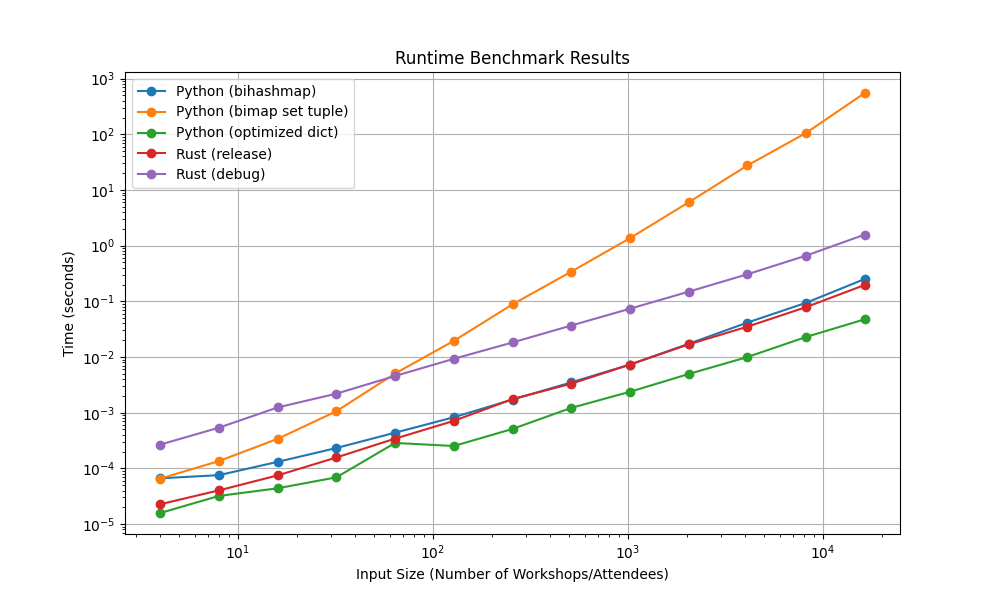
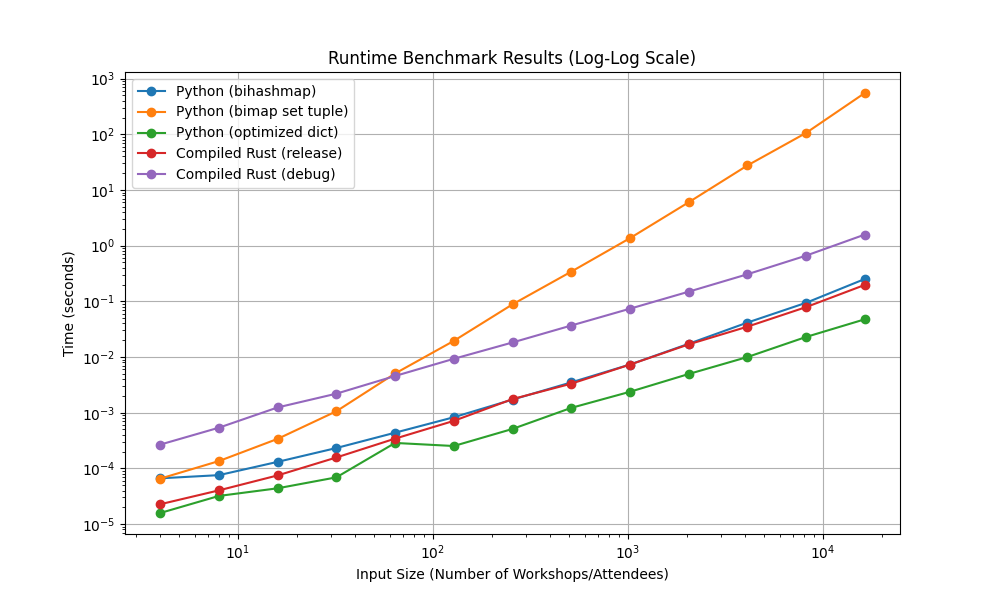
rename log files

Changed region(s): [[0.31, 0.09, 0.713, 0.12], [0.155, 0.24, 0.341, 0.3]]

diff --git a/cdp-2025/results/graph_results.py b/cdp-2025/results/graph_results.py
@@ -5,8 +5,8 @@ RUNTIME_BENCHMARKS = {
     "benchmark_runtime_python_bihashmap.csv": "Python (bihashmap)",
     "benchmark_runtime_python_bimap_tuple.csv": "Python (bimap set tuple)",
     "benchmark_runtime_python_optimized_dict.csv": "Python (optimized dict)",
-    "benchmark_runtime_rust_release.csv": "Rust (release)",
-    "benchmark_runtime_rust_debug.csv": "Rust (debug)",
+    "benchmark_runtime_rust_release.csv": "Compiled Rust (release)",
+    "benchmark_runtime_rust_debug.csv": "Compiled Rust (debug)",
 }
 
 MEMORY_BENCHMARKS = {
@@ -65,7 +65,7 @@ if __name__ == "__main__":
 
     plot_benchmarks(
         RUNTIME_BENCHMARKS,
-        "Runtime Benchmark Results",
+        "Runtime Benchmark Results (Log-Log Scale)",
         "Input Size (Number of Workshops/Attendees)",
         "Time (seconds)",
         "runtime_benchmarks.png",
@@ -74,7 +74,7 @@ if __name__ == "__main__":
 
     plot_benchmarks(
         MEMORY_BENCHMARKS,
-        "Memory Benchmark Results",
+        "Memory Benchmark Results (Log-Log Scale)",
         "Input Size (Number of Workshops/Attendees)",
         "Memory Usage (bytes)",
         "memory_benchmarks.png",
